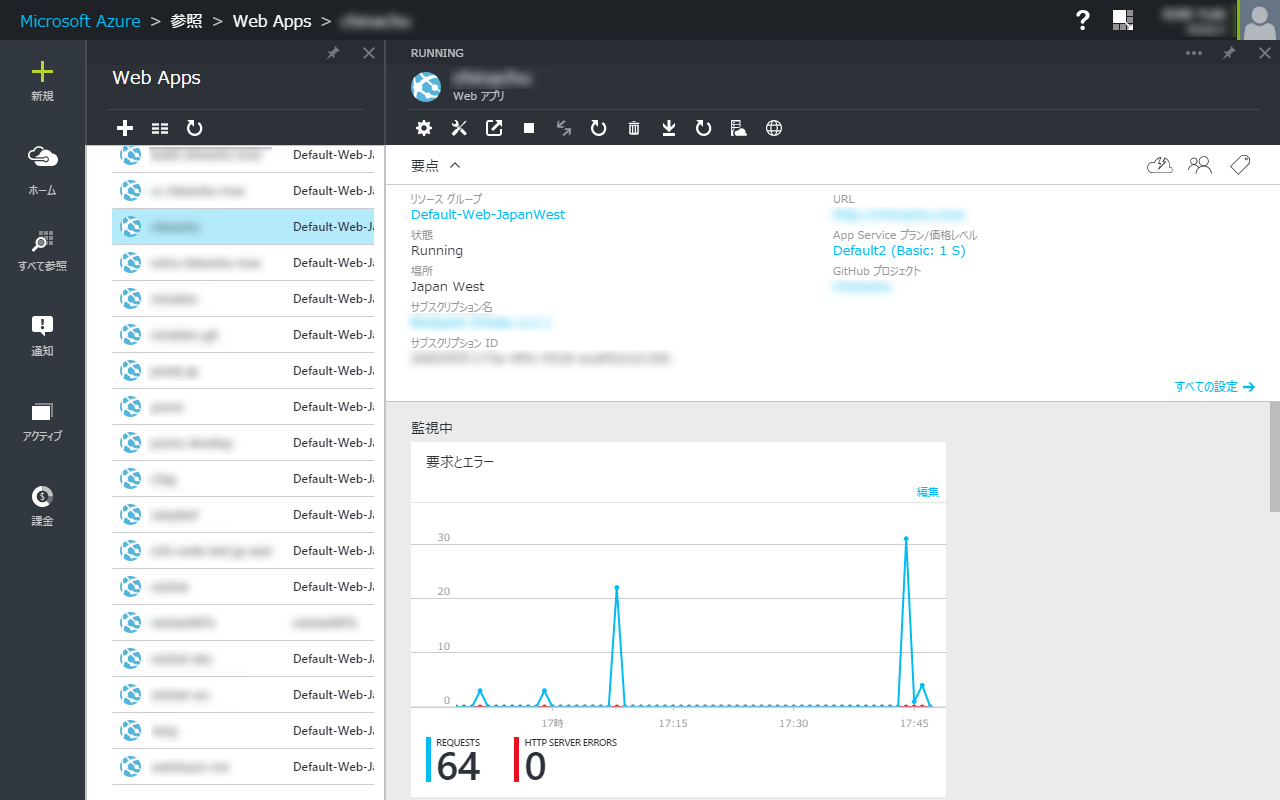
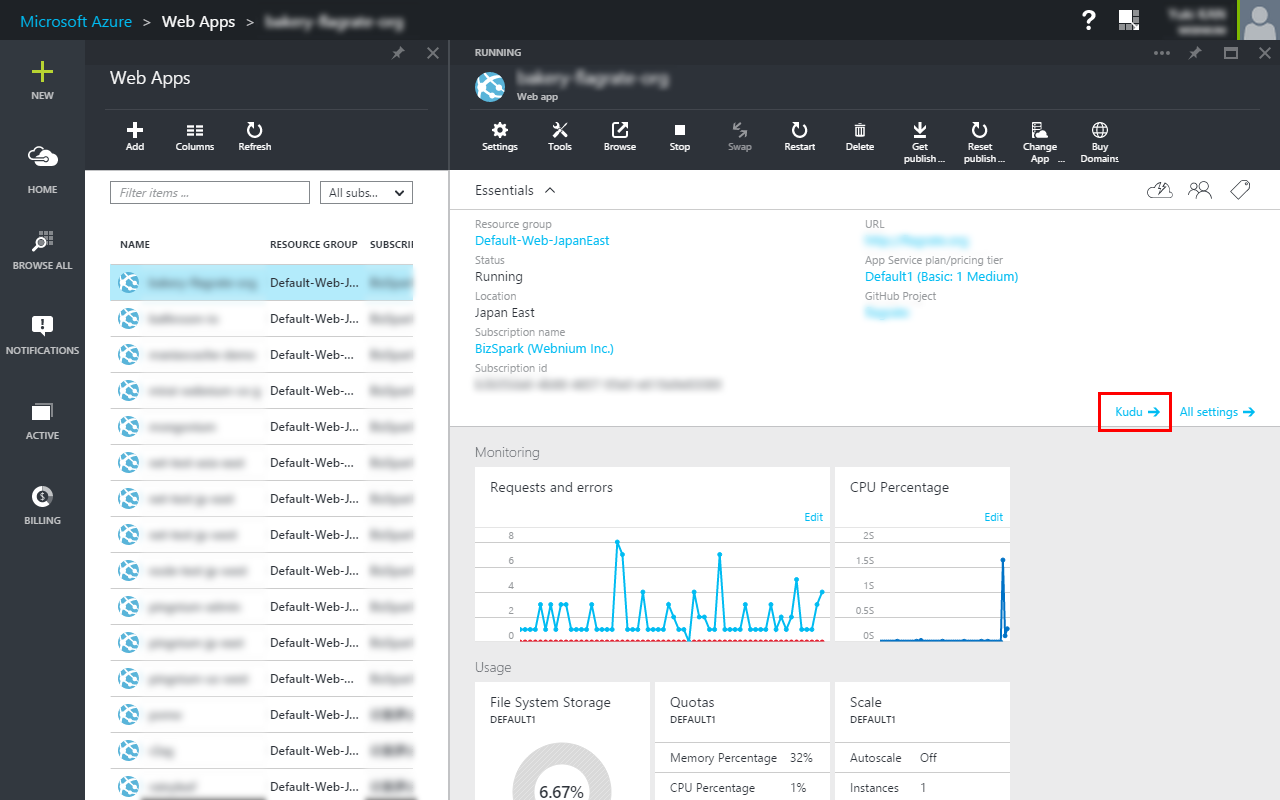
uni-azure-portal@6: improved UX, added link to Kudu

diff --git a/uni.js b/uni.js
@@ -23,6 +23,40 @@
         }
     }
 
+    var hash = '';
+    function hashProcessor() {
+
+        setTimeout(hashProcessor, 500);
+
+        if (hash !== location.hash) {
+            hash = location.hash;
+
+            if (/Microsoft\.Web\/sites\/[0-9a-z\-]+/.test(hash) === true) {
+                var siteName = hash.match(/Microsoft\.Web\/sites\/([0-9a-z\-]+)/)[1];
+
+                var summaryBottom = document.querySelector('div.fxs-part-resourcesummary-bottom');
+                var summarySettingsButton = document.querySelector('span.fxs-part-resourcesummary-settings');
+
+                if (summaryBottom === null || summarySettingsButton === null) {
+                    hash = '';
+                    return;
+                }
+
+                var kudu = summarySettingsButton.cloneNode(true);
+                kudu.className = 'fxs-text-primary fxcontrol-hotspot fxcontrol-hotspot-clickable';
+
+                kudu.firstChild.textContent = 'Kudu';
+
+                kudu.addEventListener('click', function () {
+
+                    window.open('https://' + siteName + '.scm.azurewebsites.net/', siteName);
+                });
+
+                summaryBottom.insertBefore(kudu, summaryBottom.firstChild);
+            }
+        }
+    }
+
     window.addEventListener('DOMContentLoaded', function () {
 
         var local = chrome.extension.getURL('/');
@@ -38,6 +72,7 @@
         body.appendChild(css);
 
         removePortalContentPointerDownEvents();
+        hashProcessor();
     });
 
 }());

diff --git a/uni.css b/uni.css
@@ -20,10 +20,17 @@ section.fxs-blade {
         margin-right: 0 !important;
 }
 
+/* Remove buttons. */
+section.fxs-blade > header button.fxs-blade-maximizeOrRestore,
+section.fxs-blade > header button.fxs-blade-minimize {
+    display: none;
+}
+
 /* If window size larger than 1200px, will 2-pane view automatically. */
 @media screen and (min-width: 1200px) {
     section.fxs-blade:nth-last-child(2) {
         width: calc(35vw - 85px) !important;
+        min-width: 0 !important;
     }
 
     section.fxs-blade:last-child {
@@ -31,18 +38,24 @@ section.fxs-blade {
         margin-right: 0 !important;
     }
 
+    section.fxs-blade.fxs-blade-maximized:last-child {
+        width: calc(100vw - 85px) !important;
+    }
+
+    section.fxs-blade:last-child > header button.fxs-blade-maximizeOrRestore {
+        display: inline-block;
+    }
+
     section.fxs-blade:only-child {
         width: calc(100vw - 85px) !important;
+    }
+
+    section.fxs-blade:only-child > header button.fxs-blade-maximizeOrRestore {
+        display: none;
     }
 }
 
 /* Blade content should be 100% width everytime. */
 section.fxs-blade > div.fxs-blade-content > div {
     width: 100% !important;
-}
-
-/* Don't need useless buttons. */
-section.fxs-blade > header button.fxs-blade-maximizeOrRestore,
-section.fxs-blade > header button.fxs-blade-minimize {
-    display: none;
 }
